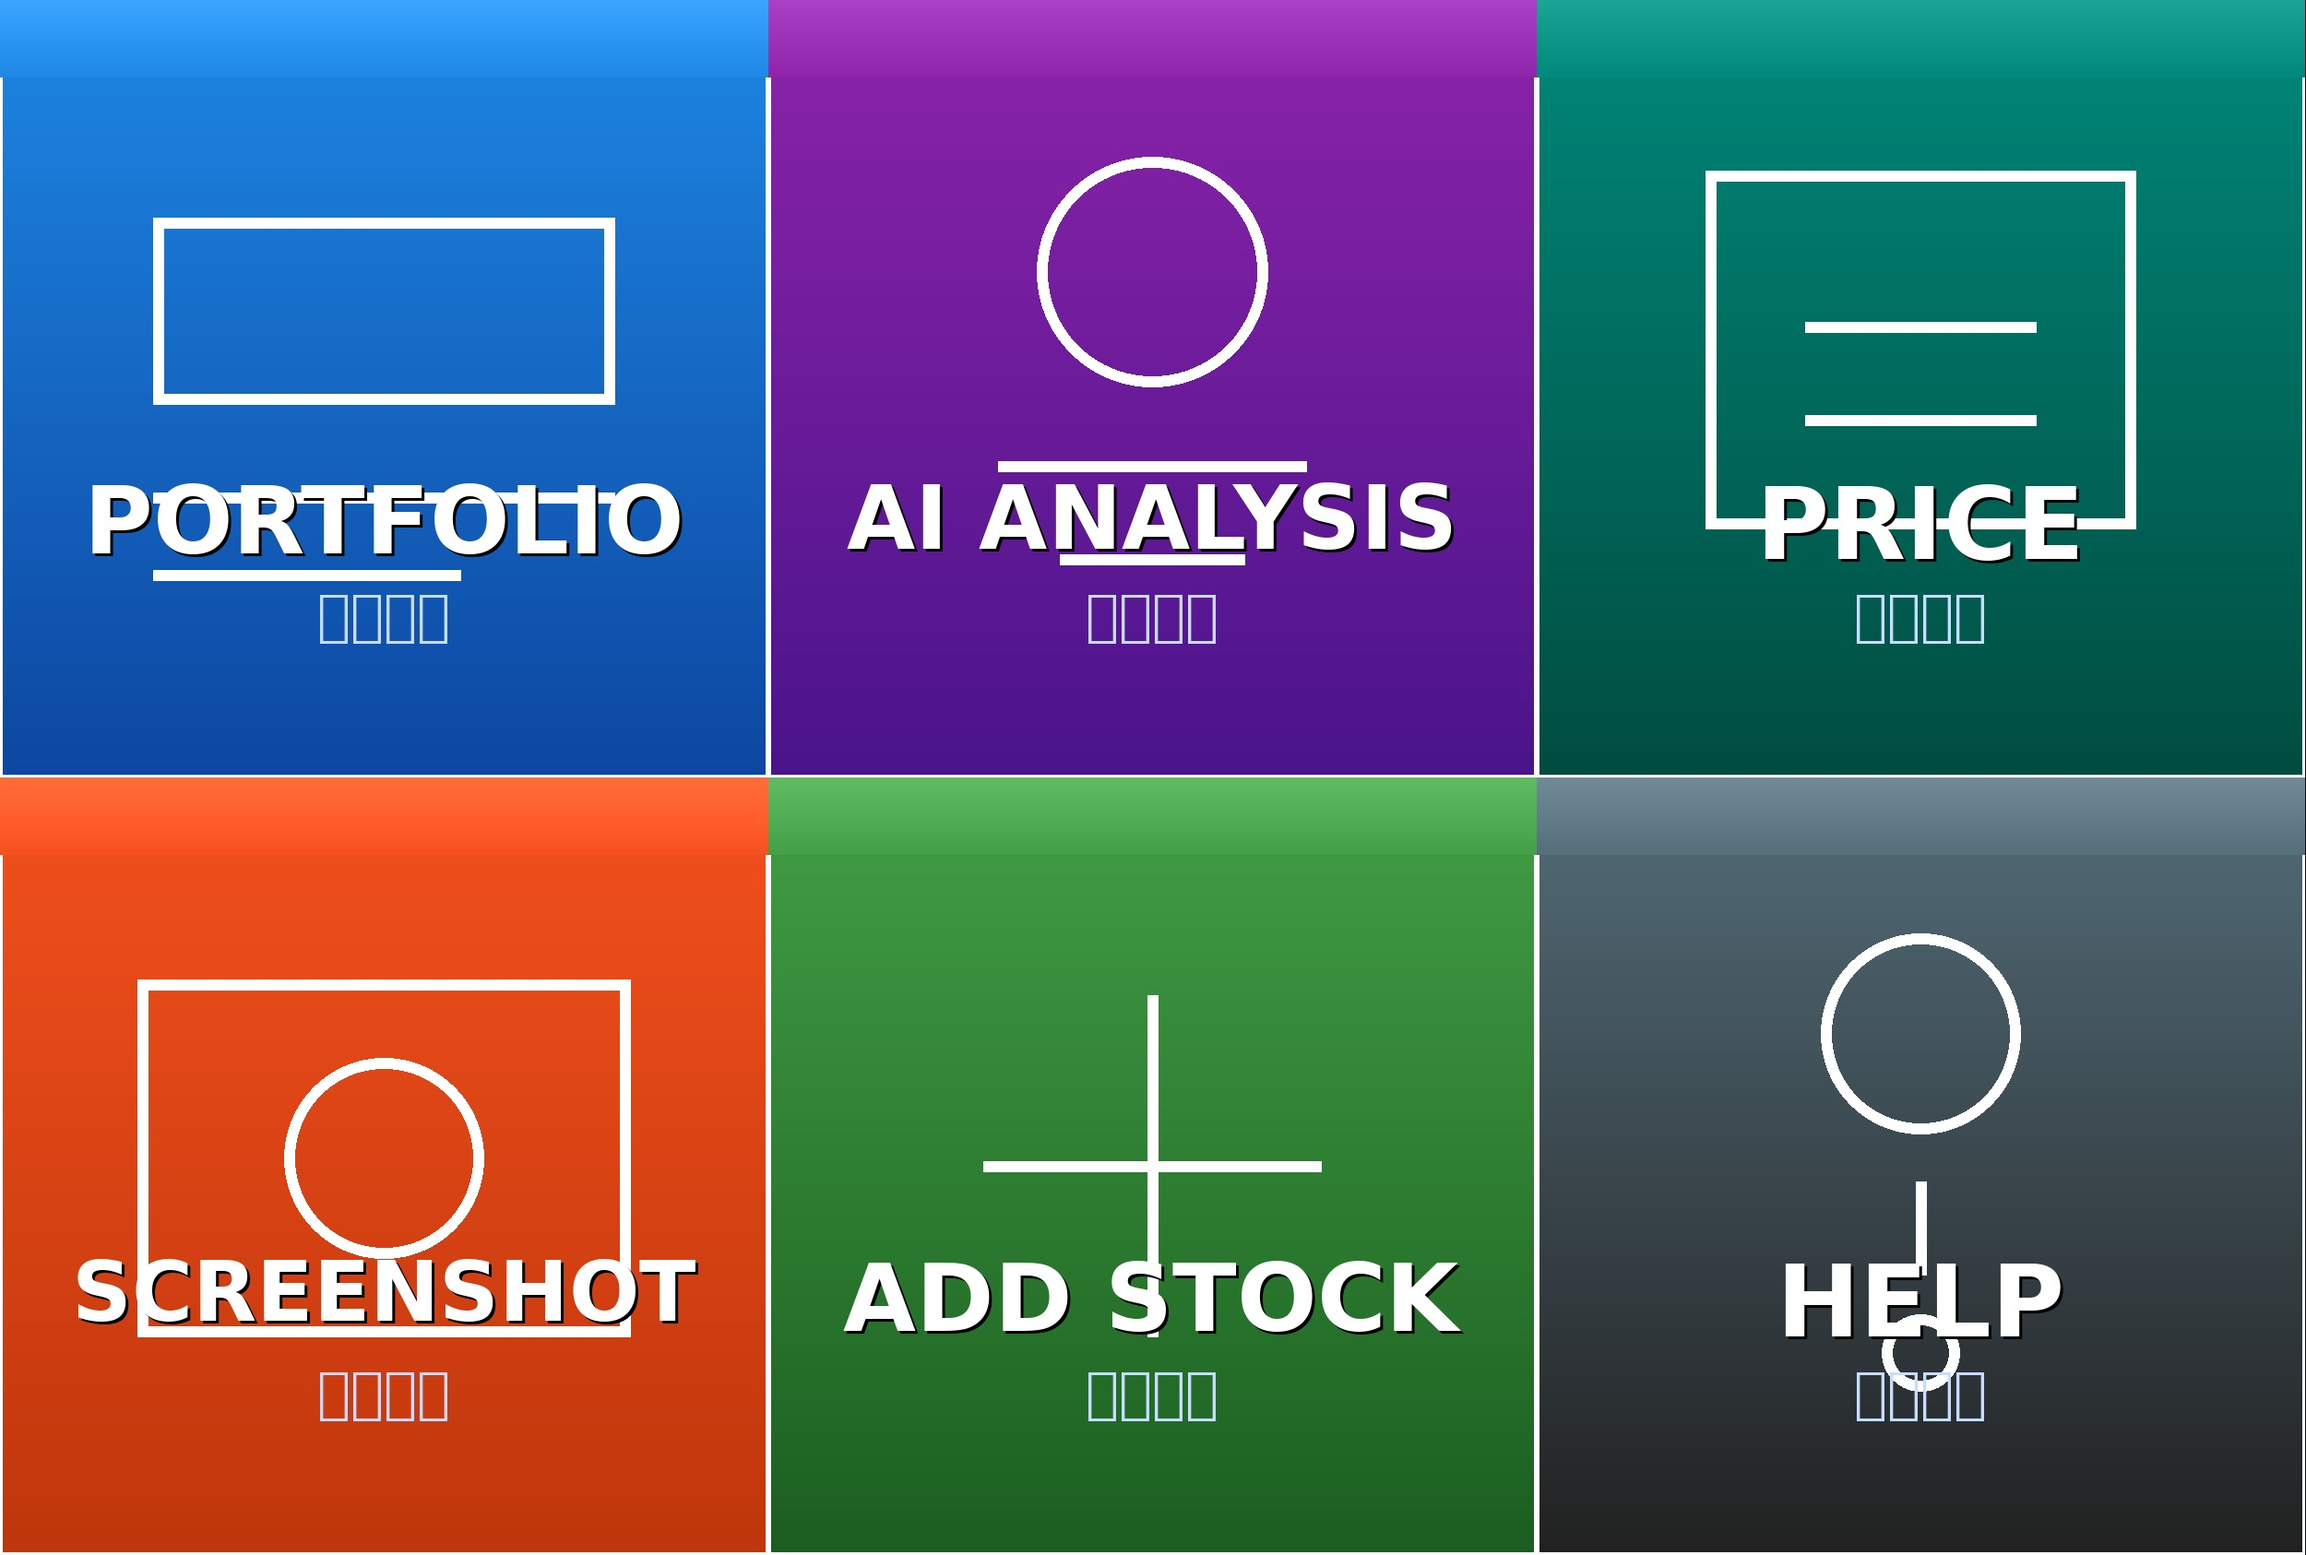
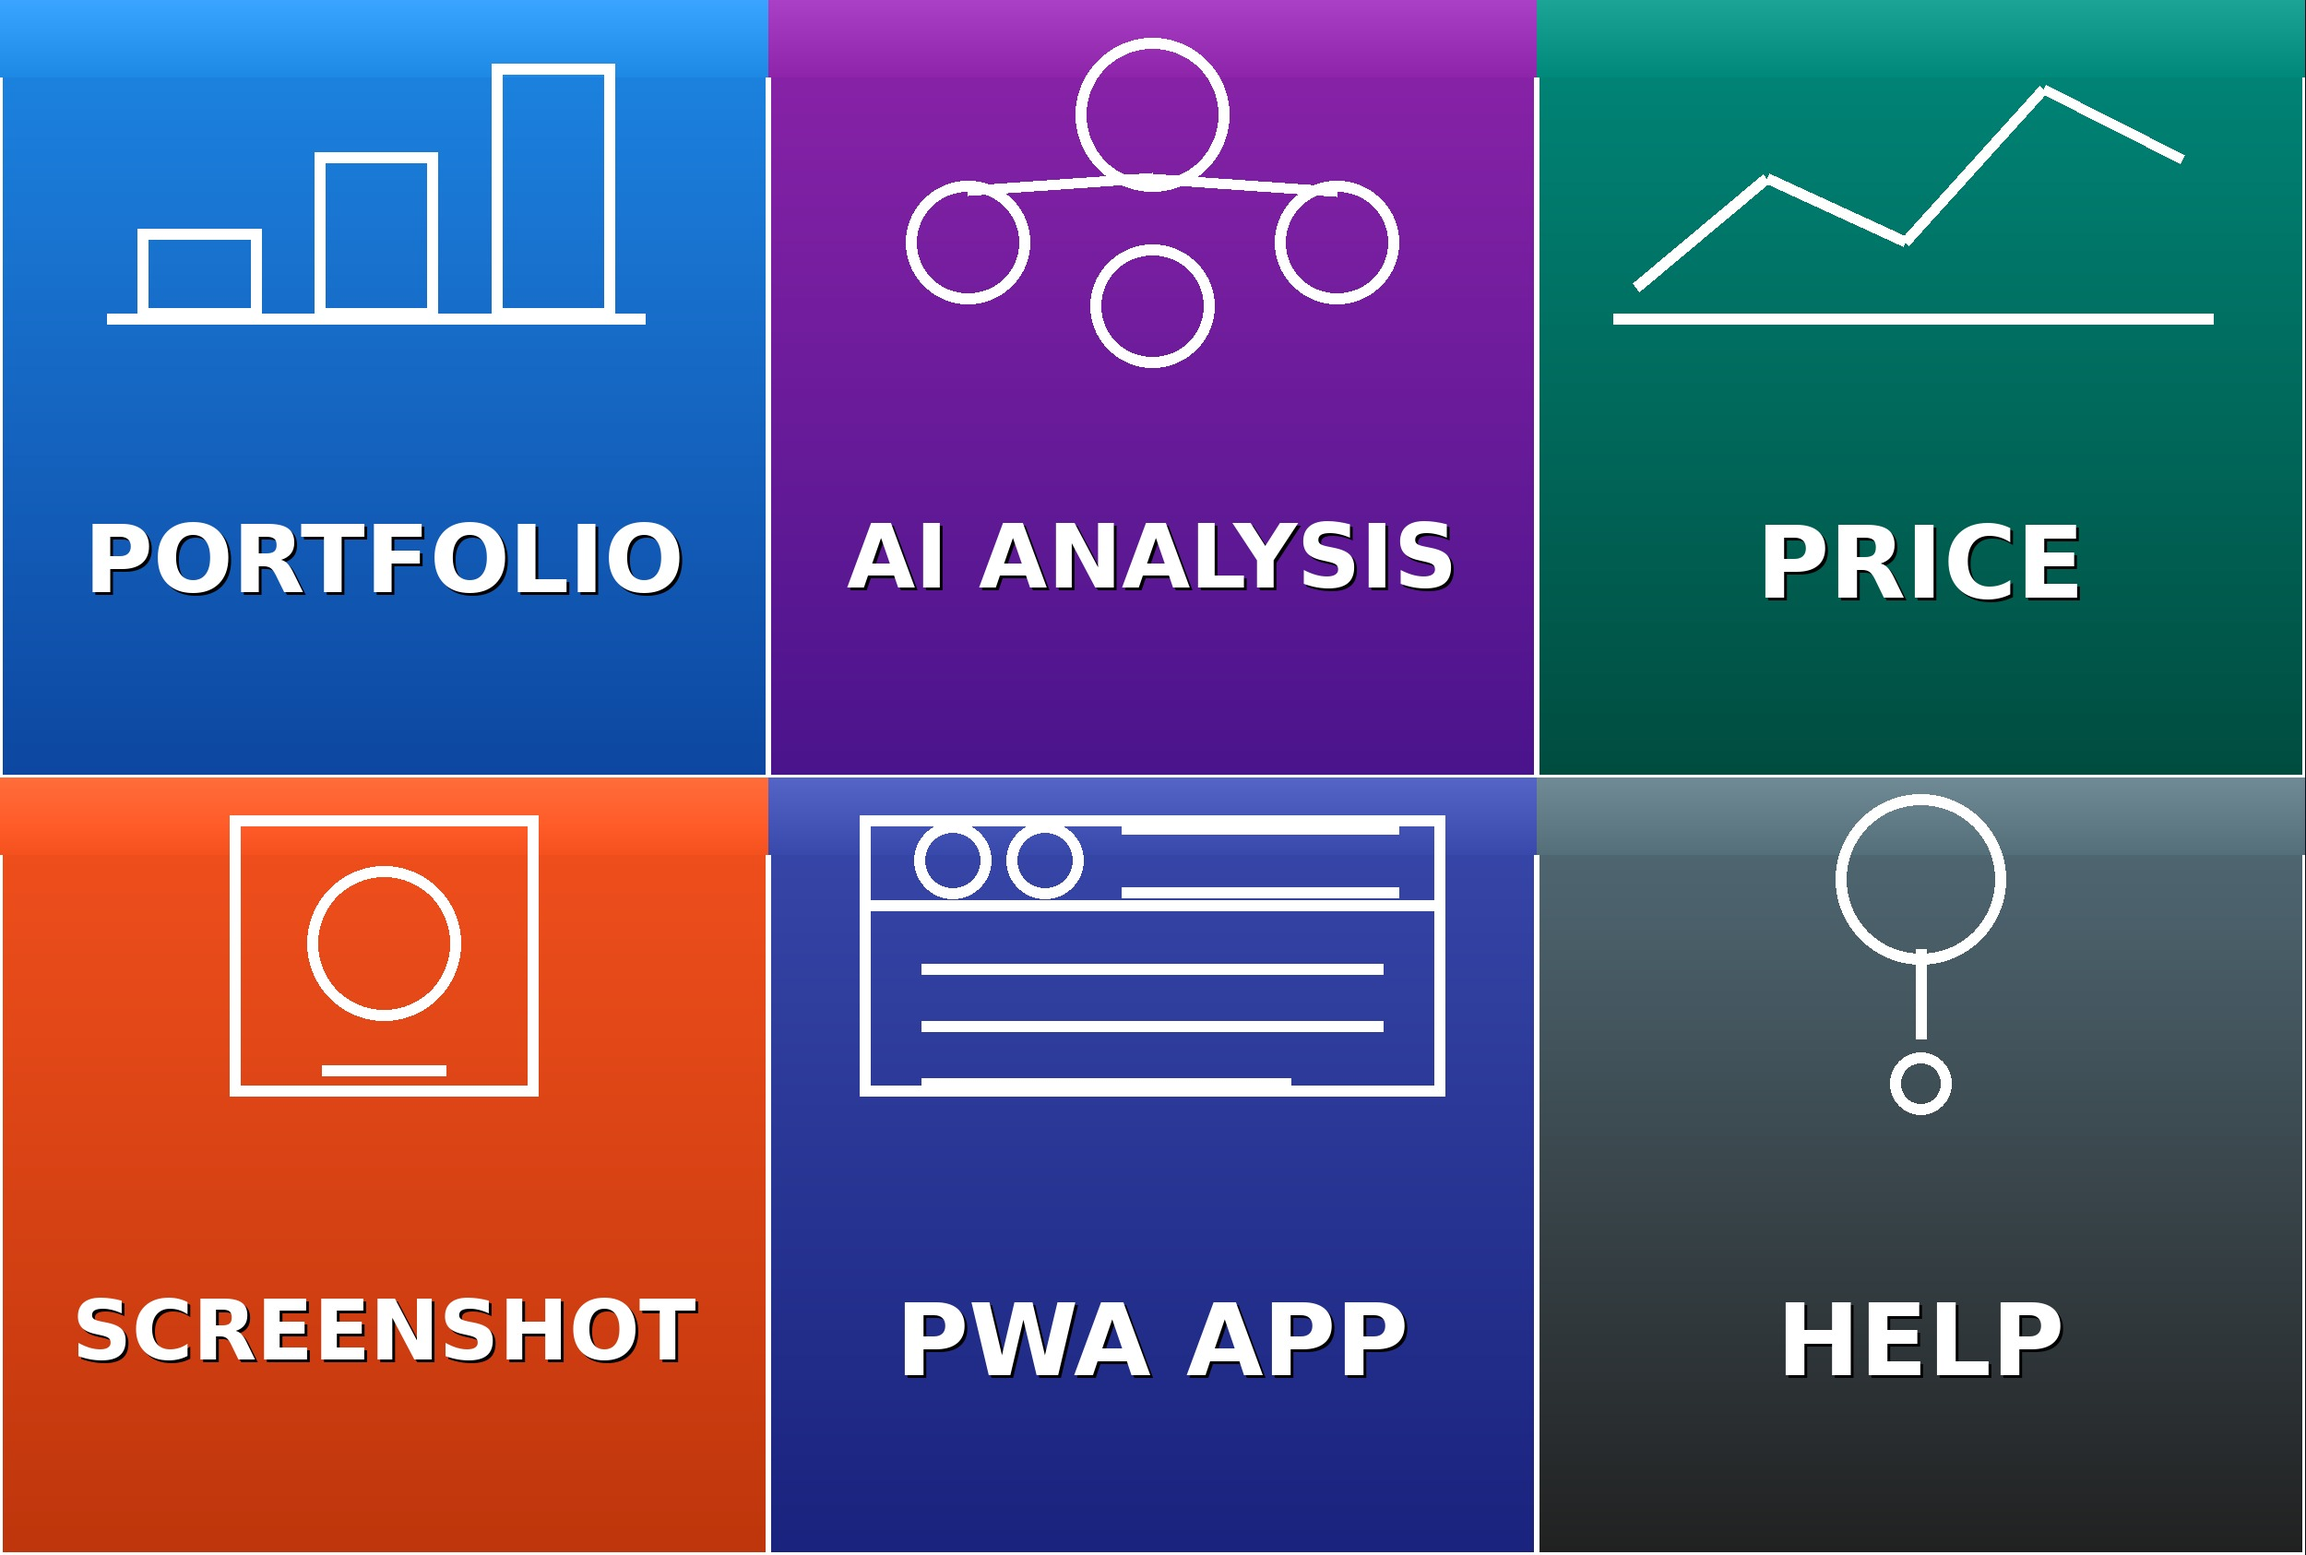
fix: redesign rich menu - replace ADD STOCK with PWA APP button
- Remove redundant ADD STOCK button
- Add PWA APP button (URIAction → /app)
- Fix icon y-coords to stay above label (no overlap)
- Update ITEMS to 8-tuple with action_type + icon_key
- Conditional URIAction/MessageAction in build_rich_menu()
- New icons: bar chart, neural net, line chart, phone, browser, question mark
- Deployed: richmenu-bfcbfb495d7bda768e7d5c7316dcc0a1

diff --git a/setup_rich_menu.py b/setup_rich_menu.py
@@ -16,12 +16,16 @@ load_dotenv()
 
 from linebot import LineBotApi
 from linebot.models import (
-    RichMenu, RichMenuSize, RichMenuArea, RichMenuBounds, MessageAction
+    RichMenu, RichMenuSize, RichMenuArea, RichMenuBounds,
+    MessageAction, URIAction
 )
 
 ACCESS_TOKEN = os.getenv("CHANNEL_STOCK_ACCESS_TOKEN", "")
 if not ACCESS_TOKEN:
     sys.exit("❌ 找不到 CHANNEL_STOCK_ACCESS_TOKEN，請確認 .env 設定")
+
+# PWA 網址（部署後填入，例：https://your-app.onrender.com/app）
+APP_URL = os.getenv("APP_URL", "https://your-app.onrender.com/app")
 
 api = LineBotApi(ACCESS_TOKEN)
 
@@ -31,28 +35,71 @@ ROWS, COLS = 2, 3
 CW, CH = W // COLS, H // ROWS
 
 # ── 選單項目 ─────────────────────────────────────────────────────────────────
-# (row, col, 英文主標, 中文副標, 觸發文字, 深色背景, 淺色背景)
+# (row, col, 英文標籤, action_type, action_value, 深色背景, 淺色背景, 圖示key)
 ITEMS = [
-    (0, 0, "PORTFOLIO",   "查看持股",   "查看持股",   "#0D47A1", "#1E88E5"),
-    (0, 1, "AI ANALYSIS", "分析持股",   "分析持股",   "#4A148C", "#8E24AA"),
-    (0, 2, "PRICE",       "即時股價",   "股價",       "#004D40", "#00897B"),
-    (1, 0, "SCREENSHOT",  "截圖匯入",   "截圖匯入",   "#BF360C", "#F4511E"),
-    (1, 1, "ADD STOCK",   "新增持股",   "新增持股",   "#1B5E20", "#43A047"),
-    (1, 2, "HELP",        "幫助指令",   "幫助",       "#212121", "#546E7A"),
+    (0, 0, "PORTFOLIO",  "msg", "查看持股", "#0D47A1", "#1E88E5", "PORTFOLIO"),
+    (0, 1, "AI ANALYSIS","msg", "分析持股", "#4A148C", "#8E24AA", "AI"),
+    (0, 2, "PRICE",      "msg", "股價",     "#004D40", "#00897B", "PRICE"),
+    (1, 0, "SCREENSHOT", "msg", "截圖匯入", "#BF360C", "#F4511E", "SCREENSHOT"),
+    (1, 1, "PWA APP",    "uri", APP_URL,    "#1A237E", "#3949AB", "WEBAPP"),
+    (1, 2, "HELP",       "msg", "幫助",     "#212121", "#546E7A", "HELP"),
 ]
 
 def hex_rgb(h):
     h = h.lstrip("#")
     return tuple(int(h[i:i+2], 16) for i in (0, 2, 4))
 
-# ── 幾何圖示定義（比例座標，相對於格子） ─────────────────────────────────────
+# ── 圖示定義：所有 y 座標限制在 0.50 以內，避免遮住底部文字標籤 ─────────
+# 格式：("R",x1,y1,x2,y2) | ("C",cx,cy,r) | ("L",x1,y1,x2,y2)
 ICONS = {
-    "PORTFOLIO":   [("R",.20,.28,.80,.52), ("L",.20,.64,.80,.64), ("L",.20,.74,.60,.74)],
-    "AI ANALYSIS": [("C",.50,.35,.15),    ("L",.30,.60,.70,.60), ("L",.38,.72,.62,.72)],
-    "PRICE":       [("R",.22,.22,.78,.68),("L",.35,.42,.65,.42), ("L",.35,.54,.65,.54)],
-    "SCREENSHOT":  [("R",.18,.26,.82,.72),("C",.50,.49,.13)],
-    "ADD STOCK":   [("L",.50,.28,.50,.72),("L",.28,.50,.72,.50)],
-    "HELP":        [("C",.50,.33,.13),    ("L",.50,.52,.50,.64), ("C",.50,.74,.05)],
+    # 持股：長條圖（bar chart）
+    "PORTFOLIO": [
+        ("R", .18,.36,.34,.50),   # 短柱
+        ("R", .41,.24,.57,.50),   # 中柱
+        ("R", .64,.10,.80,.50),   # 高柱
+        ("L", .14,.50,.84,.50),   # X 軸
+    ],
+    # AI 分析：神經網絡節點
+    "AI": [
+        ("C", .50,.18,.10),        # 頂部節點
+        ("C", .26,.38,.08),        # 左節點
+        ("C", .74,.38,.08),        # 右節點
+        ("L", .50,.28,.26,.30),   # 連線左
+        ("L", .50,.28,.74,.30),   # 連線右
+        ("C", .50,.48,.08),        # 底部節點
+    ],
+    # 股價：折線圖
+    "PRICE": [
+        ("L", .13,.45,.30,.28),
+        ("L", .30,.28,.48,.38),
+        ("L", .48,.38,.66,.14),
+        ("L", .66,.14,.84,.25),
+        ("L", .10,.50,.88,.50),   # X 軸
+    ],
+    # 截圖：手機框
+    "SCREENSHOT": [
+        ("R", .30,.06,.70,.50),   # 手機外框
+        ("C", .50,.26,.10),        # 鏡頭
+        ("L", .42,.46,.58,.46),   # 主頁鍵
+    ],
+    # PWA：瀏覽器視窗
+    "WEBAPP": [
+        ("R", .12,.06,.88,.50),   # 外框
+        ("L", .12,.20,.88,.20),   # 標題欄分隔線
+        ("C", .24,.13,.05),        # 視窗按鈕1
+        ("C", .36,.13,.05),        # 視窗按鈕2
+        ("L", .46,.08,.82,.08),   # 地址列（上）
+        ("L", .46,.18,.82,.18),   # 地址列（下）
+        ("L", .20,.30,.80,.30),   # 內容線1
+        ("L", .20,.39,.80,.39),   # 內容線2
+        ("L", .20,.48,.68,.48),   # 內容線3
+    ],
+    # 幫助：問號
+    "HELP": [
+        ("C", .50,.16,.11),        # ? 頂部圓弧
+        ("L", .50,.27,.50,.41),   # ? 竪
+        ("C", .50,.48,.04),        # ? 點
+    ],
 }
 
 def generate_menu_image() -> bytes:
@@ -76,7 +123,7 @@ def generate_menu_image() -> bytes:
         bb = draw.textbbox((0,0), text, font=font)
         return bb[2]-bb[0], bb[3]-bb[1]
 
-    for row, col, en, zh, _, bg_dk, bg_lt in ITEMS:
+    for row, col, en, atype, aval, bg_dk, bg_lt, icon_key in ITEMS:
         x0, y0 = col*CW, row*CH
         x1, y1 = x0+CW-1, y0+CH-1
 
@@ -97,38 +144,32 @@ def generate_menu_image() -> bytes:
             c = tuple(int(min(255, v+80*alpha)) for v in hex_rgb(bg_lt))
             draw.line([(x0, y0+dy),(x1, y0+dy)], fill=c)
 
-        # 幾何圖示
+        # 幾何圖示（全部限制在格子上半部 y ≤ 0.52）
         IW = 12   # line width
-        for spec in ICONS.get(en, []):
+        ICON_SCALE = 0.82  # 圖示佔格子高度的比例（縮放至前 55% 空間）
+        for spec in ICONS.get(icon_key, []):
             t_ = spec[0]
             if t_ == "C":
-                cx=x0+spec[1]*CW; cy=y0+spec[2]*CH; r=spec[3]*CW
+                cx=x0+spec[1]*CW; cy=y0+spec[2]*CH*ICON_SCALE; r=spec[3]*CW
                 draw.ellipse([cx-r,cy-r,cx+r,cy+r], outline=(255,255,255,210), width=IW)
             elif t_ == "R":
-                draw.rectangle([x0+spec[1]*CW, y0+spec[2]*CH,
-                                 x0+spec[3]*CW, y0+spec[4]*CH],
+                draw.rectangle([x0+spec[1]*CW, y0+spec[2]*CH*ICON_SCALE,
+                                 x0+spec[3]*CW, y0+spec[4]*CH*ICON_SCALE],
                                 outline=(255,255,255,210), width=IW)
             elif t_ == "L":
-                draw.line([x0+spec[1]*CW, y0+spec[2]*CH,
-                           x0+spec[3]*CW, y0+spec[4]*CH],
+                draw.line([x0+spec[1]*CW, y0+spec[2]*CH*ICON_SCALE,
+                           x0+spec[3]*CW, y0+spec[4]*CH*ICON_SCALE],
                           fill=(255,255,255,210), width=IW)
 
-        # 英文主標
+        # 英文標籤（位於格子下方 65% 處）
         sz = 108
         f = fnt(sz)
         while tw(draw, en, f)[0] > CW*0.82 and sz > 44:
             sz -= 6; f = fnt(sz)
         w_,_ = tw(draw, en, f)
-        mx = x0+(CW-w_)//2;  my = y0+int(CH*0.60)
+        mx = x0+(CW-w_)//2;  my = y0+int(CH*0.65)
         draw.text((mx+3,my+3), en, font=f, fill=(0,0,0,120))
         draw.text((mx,my),     en, font=f, fill=(255,255,255))
-
-        # 中文副標（用 DejaVu 只顯示 ASCII 範圍字符——中文顯示為小方格，
-        #           但位置和中文字數合理，用來標示功能位置）
-        f2 = fnt(60, bold=False)
-        w2,_ = tw(draw, zh, f2)
-        hx = x0+(CW-w2)//2;  hy = my+int(CH*0.15)
-        draw.text((hx,hy), zh, font=f2, fill=(200,220,255))
 
     buf = io.BytesIO()
     img.save(buf, "JPEG", quality=92)
@@ -137,10 +178,14 @@ def generate_menu_image() -> bytes:
 
 def build_rich_menu():
     areas = []
-    for row, col, en, zh, action_text, _, __ in ITEMS:
+    for row, col, en, atype, aval, bg_dk, bg_lt, icon_key in ITEMS:
+        if atype == "uri":
+            action = URIAction(label=en[:20], uri=aval)
+        else:
+            action = MessageAction(label=en[:20], text=aval)
         areas.append(RichMenuArea(
             bounds=RichMenuBounds(x=col*CW, y=row*CH, width=CW, height=CH),
-            action=MessageAction(label=zh, text=action_text),
+            action=action,
         ))
     return RichMenu(
         size=RichMenuSize(width=W, height=H),
